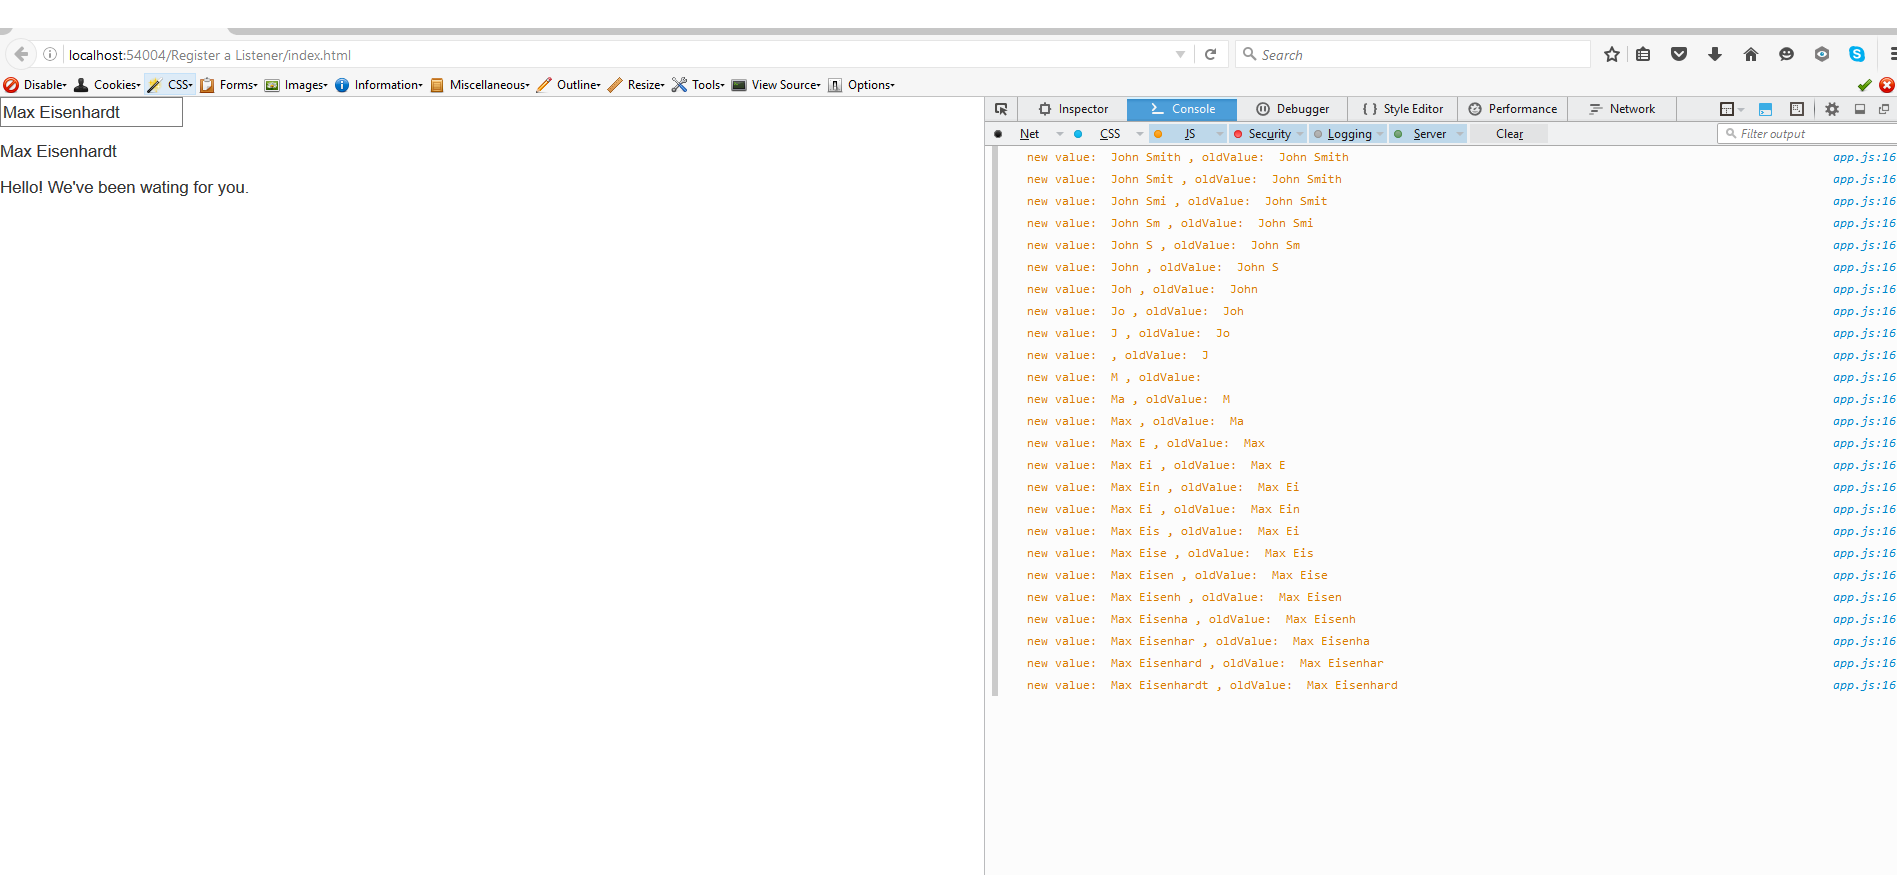
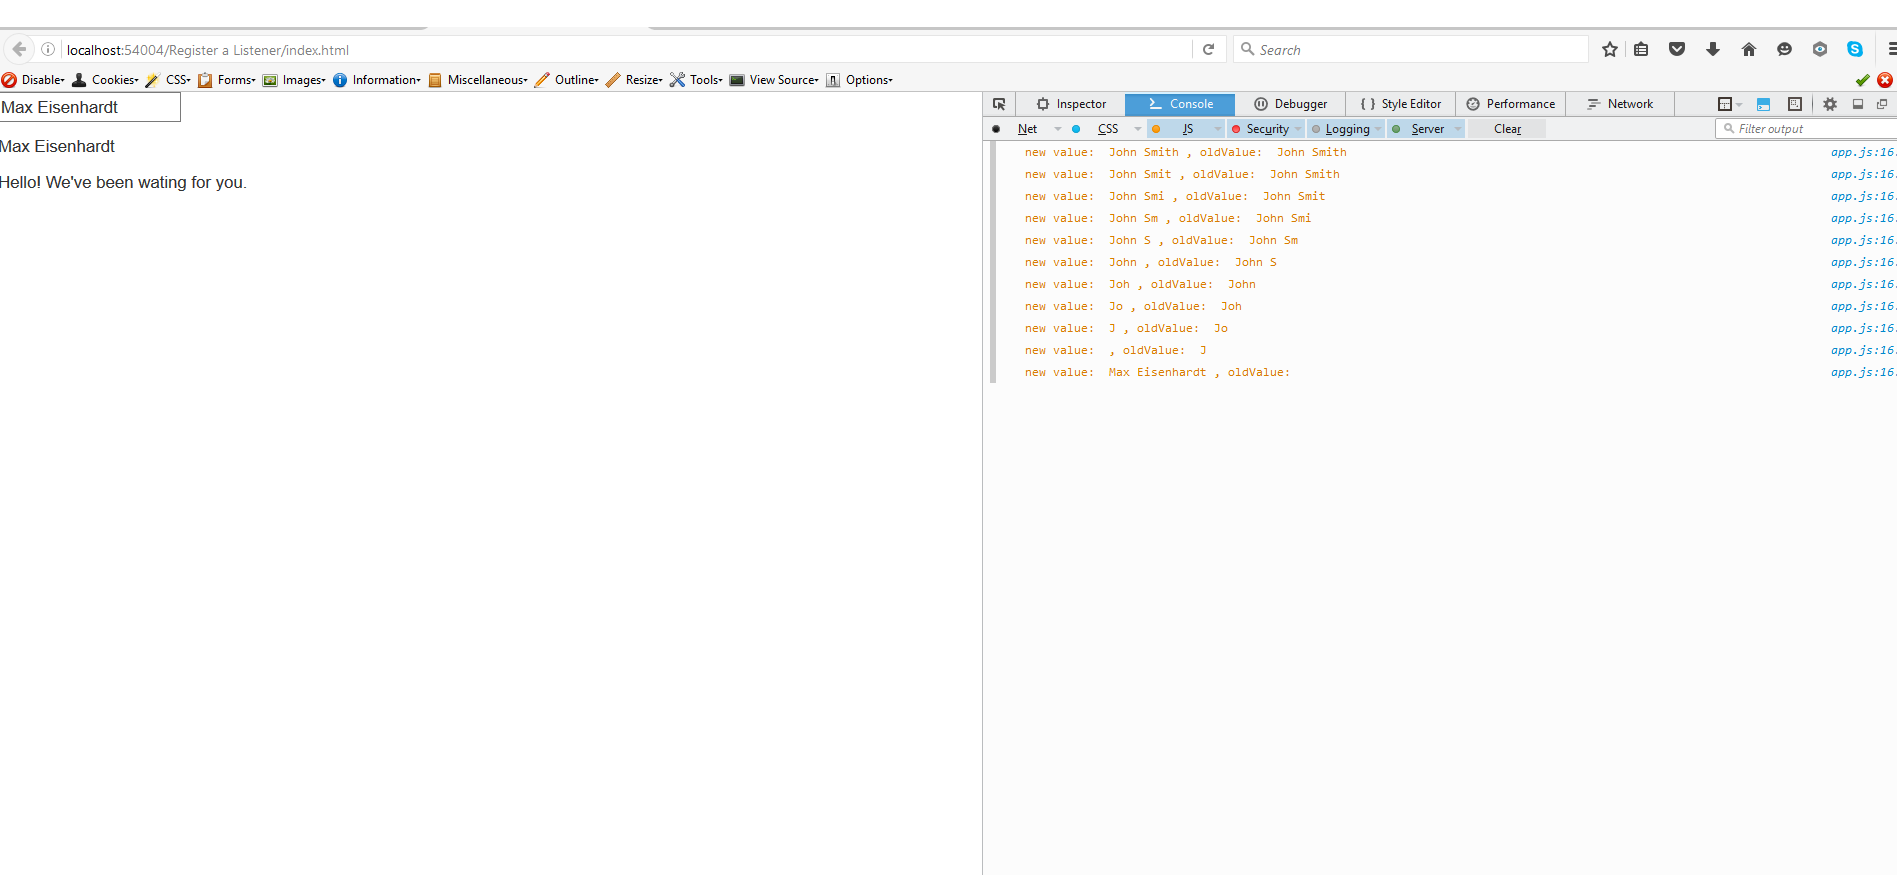
Add files via upload

Changed region(s): [[0.0, 0.0309, 1.0, 0.8023]]

diff --git a/Basics/Register a Listener/app.js b/Basics/Register a Listener/app.js
@@ -3,76 +3,26 @@ angular.module('myApp', []);
 
 
 
-angular.module('myApp').factory('RandomNameService',  function ($q, $timeout) {
+angular.module('myApp').controller('MainController', ['$scope', function ($scope) {
 
-    var firstNames = ['Doctor', 'Carol', 'War'];
-    var lastNames = ['Doom', 'Danvers', 'Machine'];
-
-    return {
-
-        getName: function (nameType) {
-
-            var defer = $q.defer();
-            var duration = Math.round(Math.random() * 3000);
-
-            $timeout(function () {
-
-                var name = '';
-                switch (nameType) {
-                    case 'first':
-                        name = firstNames[Math.floor(Math.random() * firstNames.length)];
-                        break;
-
-                    case 'last':
-                        name = lastNames[Math.floor(Math.random() * lastNames.length)];
-                        break;
-                }
-
-                defer.resolve(name);
-
-
-
-            }, duration);
-
-            return defer.promise;
-        }
-    }
-    
-
-});
-
-
-
-angular.module('myApp').controller('MainController', ['$q', 'RandomNameService', function ($q, RandomNameService) {
-    
     var vm = this;
 
-    var firstNamePromise = RandomNameService.getName('first');
-    var lastNamePromise = RandomNameService.getName('last');
+    vm.specialName = 'Max Eisenhardt';
+    vm.message = '';
+    vm.name = 'John Smith';
 
-    /* not ideal callback
-    firstNamePromise.then(function (name) {
-        vm.firstName = name;
+    $scope.$watch('main.name', function (newValue, oldValue) {
+
+        console.log('new value: ', newValue, ', oldValue: ', oldValue);
+
+        if (newValue == vm.specialName) {
+            vm.message = 'Hello! We\'ve been wating for you.';
+        } else {
+            vm.message = '';
+        }
 
     });
 
-    lastNamePromise.then(function (name) {
-        vm.lastName = name;
-
-    });
-
-    */
-
-    //ideal callback
-
-    var completed = $q.all([firstNamePromise, lastNamePromise]); //output all entries when asynchronous actions complete
-
-    completed.then(function (data) {
-        vm.firstName = data[0];
-        vm.lastName = data[1];
-    });
-
+    
 
 }]);
-
-

diff --git a/Basics/Register a Listener/index.html b/Basics/Register a Listener/index.html
@@ -10,8 +10,13 @@
     <script src="app.js"></script>
 </head>  
 <body>
-    <div ng-controller ="MainController as main">      
-        {{ main.firstName}} {{main.lastName}}
+    <div ng-controller ="MainController as main">
+       
+
+        <p><input type="text" ng-model="main.name"/></p>
+        <p>{{main.name}}</p>
+        <p>{{main.message}}</p>
+
     </div>
 
     
